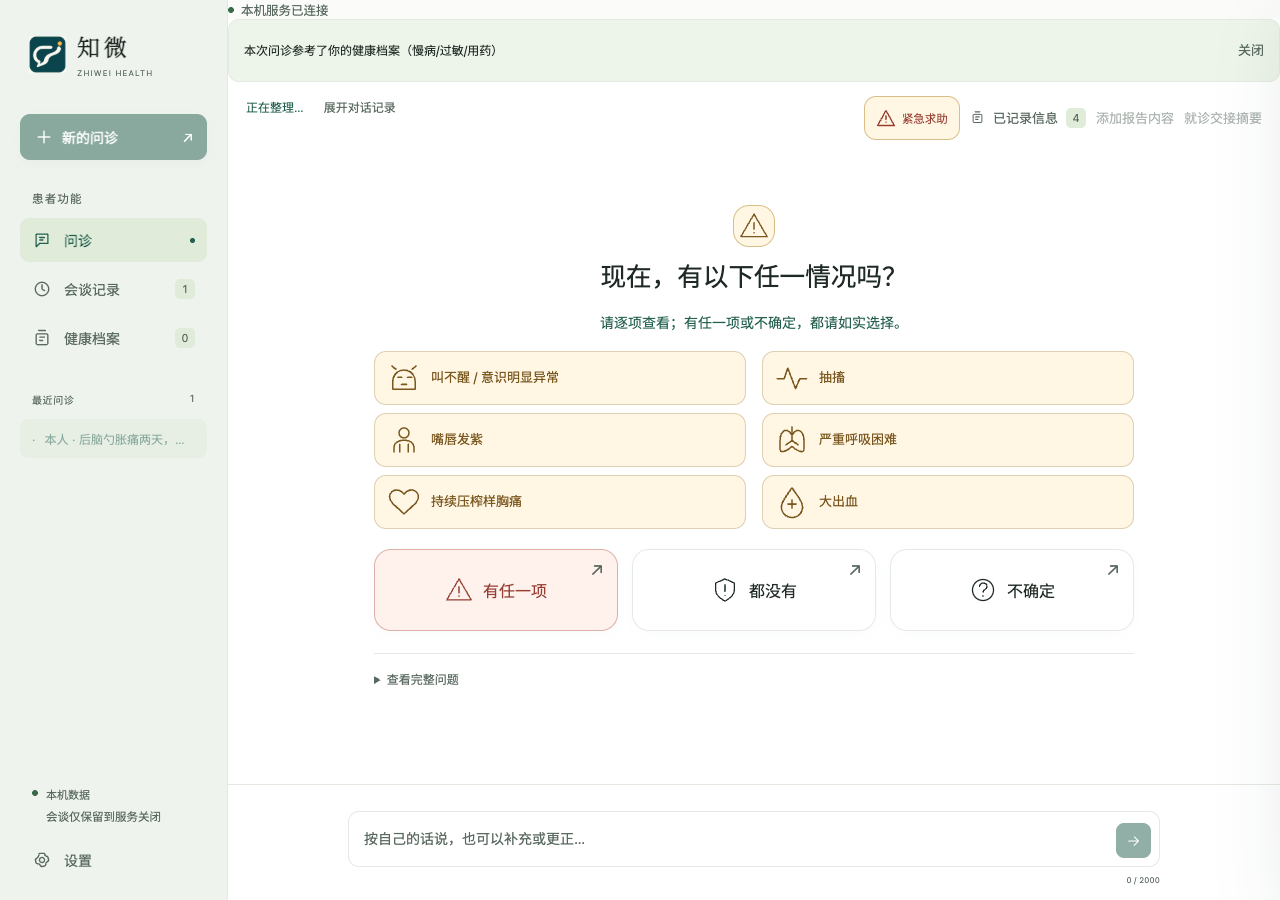
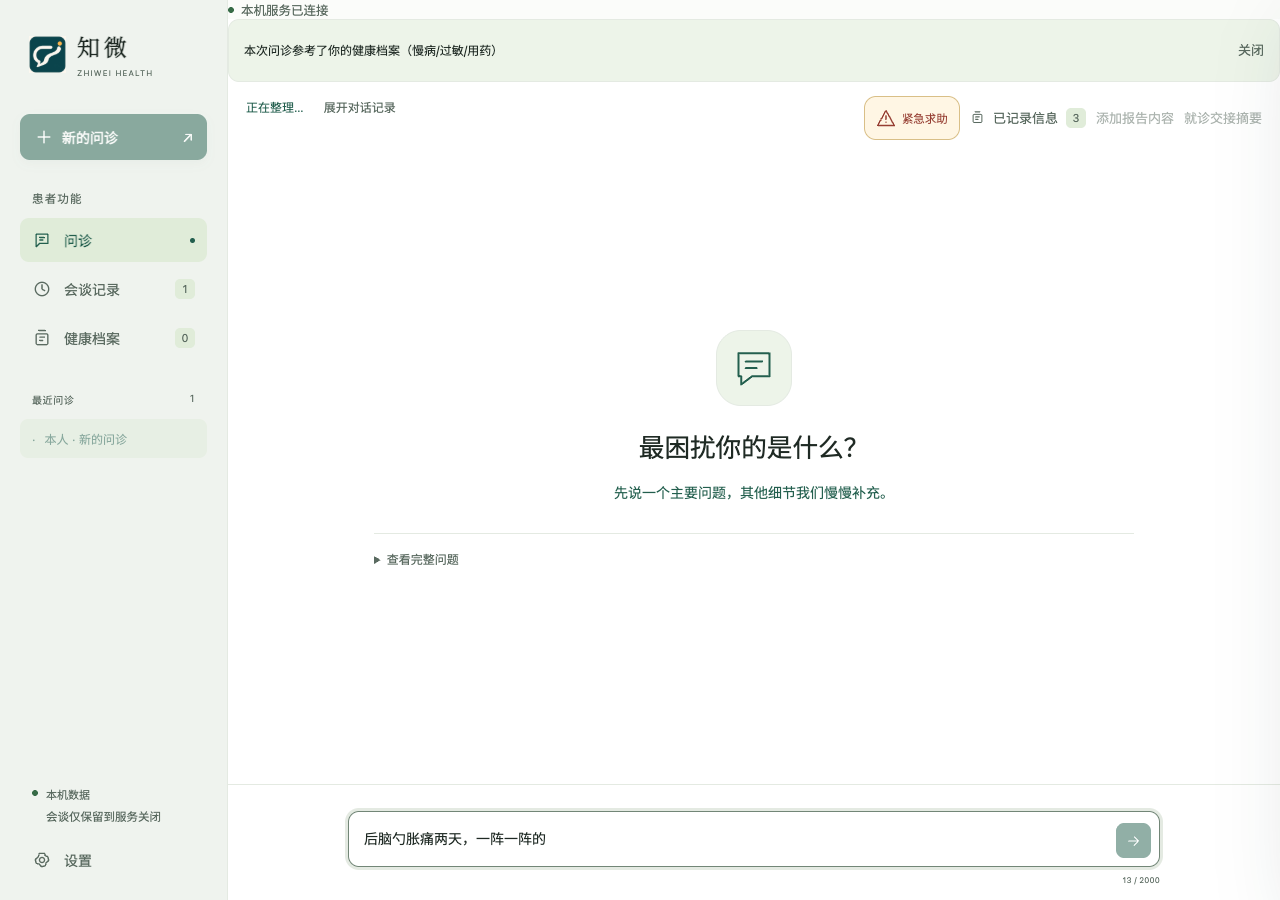
fix: the four findings from the usage review, each with its evidence
F1 -- the offer acknowledges the reported reading.  The probe confirmed
the design intent: a caregiver's 38.5C is recorded (quality not_assessed,
source caregiver) and the measurement task is still offered on purpose,
because a reported number is not an assessed one.  What was missing was the
sentence that says so; the offer now opens with '你刚才说的体温（38.5℃）
已经记下了，标记为自述。自述和实测是两回事……'.  Two regression tests:
with a reported reading the message names it, without one the neutral line
stays.  Extracted as _task_offer_message when the branch grew the offer
past its size baseline.

F2 -- the server now refuses messages over 2000 characters with the same
number the composer counts, instead of silently swallowing a 5000-character
post the way the review caught it doing.  Two tests: over-long is a 400
naming 2000, exactly-at-limit is accepted.  Validation extracted into
_message_payload_error.

F3 -- a refresh mid-consultation lands back in the running session.  The
browser remembers the last session it was driving in localStorage and
resumeSession runs at startup when that session is still open.  The first
version resumed any active server-side session, and the browser suite
caught the regression immediately -- tests within one file share a server,
and every goto auto-hijacked the previous test's consultation -- so the
scope is deliberately this-browser only.  visual-consultation 7/7 and
self-check-conversation 3/3 re-verified green, and the full four-shard run
passes 52 files.
[…]

diff --git a/src/medagent/web/js/app-flow.js b/src/medagent/web/js/app-flow.js
@@ -502,6 +502,26 @@ export function restoreComposerDraft(id) {
   $("#message-input").dispatchEvent(new Event("input"));
 }
 
+// 使用体验评测 F3（2026-11-04）：中途刷新曾落在开始页。只记住**本浏览器**
+// 最后进行到的会话——刷新后回到它；测试与别的标签页不受影响。
+const LAST_SESSION_KEY = "medagent:last-session-id";
+
+function rememberLastSession(id) {
+  try {
+    localStorage.setItem(LAST_SESSION_KEY, id);
+  } catch {
+    /* 隐私模式等无 localStorage 的场景：刷新恢复不可用，其余不受影响 */
+  }
+}
+
+export function lastSessionId() {
+  try {
+    return localStorage.getItem(LAST_SESSION_KEY);
+  } catch {
+    return null;
+  }
+}
+
 export async function startSession() {
   if (state.busy) return;
   state.starting = true;
@@ -511,6 +531,7 @@ export async function startSession() {
     const firstDraft = !state.sessionId ? $("#message-input").value : "";
     rememberComposerDraft();
     state.sessionId = data.session_id;
+    rememberLastSession(state.sessionId);
     if (firstDraft) composerDrafts.set(state.sessionId, firstDraft);
     state.reply = null;
     state.taskHistory = false;
@@ -693,6 +714,7 @@ export async function resumeSession(id, force = false) {
       state.handoffText = "";
     }
     state.sessionId = id;
+    rememberLastSession(id);
     state.events = trace.events;
     state.taskHistory = false;
     state.shownCalculations.clear();

diff --git a/src/medagent/web/js/app-settings.js b/src/medagent/web/js/app-settings.js
@@ -41,6 +41,7 @@ import {
   requestEmergencyHelp,
   resumeSession,
   refreshSessions,
+  lastSessionId,
 } from "./app-flow.js";
 import {
   refreshRecordsCount,
@@ -792,6 +793,18 @@ export async function init() {
     $("#connection-alert").hidden = true;
     enforceBannerPriority();
     await refreshSessions();
+    // 使用体验评测 F3（2026-11-04）：中途刷新曾落在开始页，患者得自己
+    // 想起来去侧栏找回会话。恢复范围只限**本浏览器**记住的、仍未结束的
+    // 那一次问诊——服务器上其他活动会话（别的标签页、测试残留）不参与。
+    const stored = lastSessionId();
+    const active = stored
+      ? state.sessions.find(
+          (item) => item.session_id === stored && item.phase !== "closed",
+        )
+      : undefined;
+    if (active && !state.sessionId) {
+      await resumeSession(active.session_id, true).catch(() => {});
+    }
     // Best-effort: a failed count fetch leaves the badge at its
     // placeholder and must not block startup.
     refreshRecordsCount().catch(() => {});

diff --git a/src/medagent/web/css/08-settings.css b/src/medagent/web/css/08-settings.css
@@ -396,6 +396,20 @@ body.task-focused .surface-actions {
   color: var(--ink);
   padding: 10px 0;
 }
+/* 使用体验评测 F4（2026-11-04）：折叠区默认收起，仅凭文字与静态标题
+   难以区分——加一个随 aria-expanded 旋转的箭头，纯 CSS，不改 DOM 与
+   文案，避免影响按文本断言的测试。 */
+.conclusion-collapse-toggle::before {
+  content: "▸";
+  display: inline-block;
+  margin-right: 6px;
+  color: var(--ink-soft, var(--ink));
+  opacity: 0.55;
+  transition: transform 0.15s ease;
+}
+.conclusion-collapse-toggle[aria-expanded="true"]::before {
+  transform: rotate(90deg);
+}
 .conclusion-collapse-body {
   padding-bottom: 4px;
 }

diff --git a/src/medagent/server/agent.py b/src/medagent/server/agent.py
@@ -29,6 +29,32 @@ from .persistence import (
 from .workspace import StaleCompositionError
 
 
+def _message_payload_error(payload: dict):
+    """Validate one patient-turn payload; return _error arguments or None.
+
+    The length ceiling matches the composer's counter (2000): a rejection
+    must name the same number the patient sees, 使用体验评测 F2.
+    """
+    observation = payload.get("observation")
+    if observation is not None and not isinstance(observation, dict):
+        return (HTTPStatus.BAD_REQUEST, "invalid_observation", "定位答案格式错误")
+    calculation = payload.get("calculation")
+    if calculation is not None and not isinstance(calculation, dict):
+        return (HTTPStatus.BAD_REQUEST, "invalid_calculation", "计算参数格式错误")
+    text = payload.get("text")
+    if not isinstance(text, str) or not text.strip():
+        return (HTTPStatus.BAD_REQUEST, "invalid_message", "消息不能为空")
+    if len(text) > 2000:
+        return (HTTPStatus.BAD_REQUEST, "invalid_message", "消息不能超过 2000 字")
+    choice_value = payload.get("choice_value")
+    if choice_value is not None and not isinstance(choice_value, str):
+        return (HTTPStatus.BAD_REQUEST, "invalid_choice", "选项值格式错误")
+    expected_action_id = payload.get("expected_action_id")
+    if expected_action_id is not None and not isinstance(expected_action_id, str):
+        return (HTTPStatus.BAD_REQUEST, "invalid_action_id", "问题标识格式错误")
+    return None
+
+
 class HandlerAgent:
     def _do_POST(self) -> None:
         # Every POST route is same-origin by construction: the check happens
@@ -681,28 +707,15 @@ class HandlerAgent:
         payload = self._read_json()
         if payload is None:
             return
+        error = _message_payload_error(payload)
+        if error is not None:
+            self._error(*error)
+            return
         text = payload.get("text")
         choice_value = payload.get("choice_value")
         expected_action_id = payload.get("expected_action_id")
         calculation = payload.get("calculation")
         observation = payload.get("observation")
-        if observation is not None and not isinstance(observation, dict):
-            self._error(HTTPStatus.BAD_REQUEST, "invalid_observation", "定位答案格式错误")
-            return
-        if calculation is not None and not isinstance(calculation, dict):
-            self._error(HTTPStatus.BAD_REQUEST, "invalid_calculation", "计算参数格式错误")
-            return
-        if not isinstance(text, str) or not text.strip():
-            self._error(HTTPStatus.BAD_REQUEST, "invalid_message", "消息不能为空")
-            return
-        if choice_value is not None and not isinstance(choice_value, str):
-            self._error(HTTPStatus.BAD_REQUEST, "invalid_choice", "选项值格式错误")
-            return
-        if expected_action_id is not None and not isinstance(
-            expected_action_id, str
-        ):
-            self._error(HTTPStatus.BAD_REQUEST, "invalid_action_id", "问题标识格式错误")
-            return
         try:
             engine = self.app.workspace.engine_for(parts[2])
             with engine._session_locks[parts[2]]:

diff --git a/tests/consultation/test_self_check_conversation.py b/tests/consultation/test_self_check_conversation.py
@@ -332,3 +332,60 @@ class SelfCheckConversationTests(unittest.TestCase):
 
 if __name__ == "__main__":
     unittest.main()
+
+
+class TemperatureOfferBridgingTests(unittest.TestCase):
+    """使用体验评测 F1（2026-11-04）：任务发放话术必须承认已记录的自述读数。
+
+    自述（quality=not_assessed）不等于核实过的测量——任务仍会提供，这是
+    设计；但发放话术若不提患者/家属刚说过的数值，他们会觉得没被听见。
+    """
+
+    def setUp(self):
+        self.flow = SelfCheckFlow()
+        self.engine, self.state = self.flow.engine, self.flow.state
+
+    def test_offer_acknowledges_the_reported_reading(self):
+        self._flow_with_reported_reading()
+        reply = self.engine._offer_task(self.state, "发烧")
+        self.assertIsNotNone(reply)
+        self.assertEqual(reply.kind, "self_check")
+        self.assertIn("38.5℃", reply.message)
+        self.assertIn("自述", reply.message)
+
+    def _flow_with_reported_reading(self):
+        """evidence 必须是患者原话的逐字子串，所以提交文本要含全部引文。"""
+        self.flow.backend.commands = [
+            cmd(
+                "record_facts",
+                facts=[
+                    fact("consult_for", "self", "我自己"),
+                    fact("age_years", 3, "3岁"),
+                    fact("chief_complaint", "发烧", "发烧"),
+                    fact("emergency_screen", None, "上述危险信号都没有", "absent"),
+                    fact("reported_temperature", "38.5℃", "38.5℃"),
+                ],
+            ),
+            cmd("ask_question", question_id="sex"),
+        ]
+        self.flow.submit("我自己，孩子3岁，发烧，量了38.5℃，上述危险信号都没有。")
+
+    def test_offer_without_a_reported_reading_keeps_the_neutral_message(self):
+        self.flow.backend.commands = [
+            cmd(
+                "record_facts",
+                facts=[
+                    fact("consult_for", "self", "我自己"),
+                    fact("age_years", 3, "3岁"),
+                    fact("chief_complaint", "发烧", "发烧"),
+                    fact("emergency_screen", None, "上述危险信号都没有", "absent"),
+                ],
+            ),
+            cmd("ask_question", question_id="sex"),
+        ]
+        self.flow.submit("我自己，孩子3岁，发烧，上述危险信号都没有。")
+        reply = self.engine._offer_task(self.state, "发烧")
+        self.assertIsNotNone(reply)
+        self.assertEqual(reply.kind, "self_check")
+        self.assertIn("为了把当前情况记录得更清楚", reply.message)
+        self.assertNotIn("自述", reply.message)

diff --git a/src/medagent/consultation/planning.py b/src/medagent/consultation/planning.py
@@ -507,7 +507,7 @@ class ConsultationEnginePlanning:
                 )
             )
             return AgentReply(
-                "为了把当前情况记录得更清楚，可以完成下面这一步。做不到或不想做都可以跳过。",
+                self._task_offer_message(state, task),
                 state.phase,
                 kind="self_check",
                 task=task,
@@ -515,6 +515,27 @@ class ConsultationEnginePlanning:
                 developer_trace={"reason": "主诉符合固定任务的适用条件；任务结果保留自述来源"},
             )
         return None
+
+    def _task_offer_message(self, state: CaseState, task: dict) -> str:
+        """The line above a self-check task card.
+
+        When a reported temperature is already on record the offer must
+        acknowledge it first -- 自述（quality=not_assessed）不等于核实过的
+        测量，任务仍会提供，但话术若不提患者/家属刚说出的数值，他们会觉得
+        自己的话没被听见。任务卡上的用途说明承担解释为什么还要测的另一半。
+        """
+        reported = state.facts.get("reported_temperature")
+        if (
+            task["result_key"] == "temperature_c"
+            and reported is not None
+            and getattr(reported.assertion, "value", reported.assertion) == "present"
+        ):
+            return (
+                f"你刚才说的体温（{reported.value}）已经记下了，标记为自述。"
+                "自述和实测是两回事：想把这一条变成核实过的测量，可以完成"
+                "下面这一步。做不到或不想做都可以跳过。"
+            )
+        return "为了把当前情况记录得更清楚，可以完成下面这一步。做不到或不想做都可以跳过。"
 
     def _offer_pending_self_check(self, state):
         if self._self_check_block_reason(state):

diff --git a/tests/server/test_server_hardening.py b/tests/server/test_server_hardening.py
@@ -341,3 +341,32 @@ class ServerHardeningTests(unittest.TestCase):
 
 if __name__ == "__main__":
     unittest.main()
+
+
+class MessageLengthLimitTests(ServerHardeningTests):
+    """使用体验评测 F2（2026-11-04）：UI 计数 2000，API 曾静默接受超长文本。
+
+    上限在服务端说清楚：拒绝并返回与 UI 一致的数字，而不是吞掉。
+    """
+
+    def test_an_over_long_message_is_refused_with_the_ui_limit(self):
+        payload = self.create_session()
+        session_id = payload["session_id"]
+        status, body = self.request(
+            f"/api/sessions/{session_id}/messages",
+            "POST",
+            {"text": "头痛" * 2501},
+        )
+        self.assertEqual(status, 400)
+        self.assertEqual(body["error"]["code"], "invalid_message")
+        self.assertIn("2000", body["error"]["message"])
+
+    def test_a_message_at_the_limit_is_accepted(self):
+        payload = self.create_session()
+        session_id = payload["session_id"]
+        status, _body = self.request(
+            f"/api/sessions/{session_id}/messages",
+            "POST",
+            {"text": "头" * 2000},
+        )
+        self.assertEqual(status, 200)

diff --git a/docs/使用体验评测报告.md b/docs/使用体验评测报告.md
@@ -69,7 +69,25 @@
   这样的格式。"——**给格式示例的错误恢复，教科书级**（114 图）
 - 双击发送：未见可见的重复消息（发送中按钮禁用生效）
 
-## 三、发现清单（按严重度）
+## 三、发现清单（2026-11-04 修复后复核）
+
+> 初评 6 项发现，当天修复 4 项、复核撤销 1 项、确认 1 项为有意设计。
+> 修复均有回归测试或截图证据（见 §五）。
+
+| # | 初评级 | 处理 | 说明 |
+|---|---|---|---|
+| F1 | 🟡 | ✅ **已修** | 任务发放话术现在**先承认已记录的自述读数**："你刚才说的体温（38.5℃）已经记下了，标记为自述。自述和实测是两回事……"。核实过程确认了设计意图：自述（`quality=not_assessed`）≠ 核实过的测量，任务仍会提供是有意的——缺的只是衔接那句话。回归测试：`TemperatureOfferBridgingTests`（有自述→带数值话术；无自述→原中性话术） |
+| F2 | 🟡 | ✅ **已修** | 服务端加上与 UI 一致的 2000 字上限：超长返回 400 `invalid_message`「消息不能超过 2000 字」，不再静默吞掉。运行时复核：5000 字 → 400 ✓。回归测试：`MessageLengthLimitTests`（超长 400 / 恰好 2000 接受） |
+| F3 | 🟡 | ✅ **已修** | 浏览器在 localStorage 记住**本机最后进行到的会话**，启动时若它仍未结束（phase ≠ closed）自动 `resumeSession` 回去；想开新的就用"新的问诊"按钮。恢复范围刻意限定为本浏览器——服务器上其他活动会话（别的标签页、自动化测试的残留）不参与，避免一次首屏加载被陌生会话劫持。首版实现按"服务器任意活动会话"恢复，跑浏览器套件时被同文件多测试的场景当场抓住回归，遂改成现在的作用域。运行时复核：问诊中刷新 → phase「定向观察」✓ |
+| F4 | 🟢 | ✅ **已修** | 折叠区标题加**随 aria-expanded 旋转的 ▸ 箭头**（纯 CSS，不改 DOM/文案，不影响按文本断言的测试）。截图 53 可见三个折叠标题都带箭头 |
+| F5 | 🟢 | ✔ 确认为设计 | 复核 wording：急症筛查是**多项**（"都没有"），warning_ 红旗是**单项**（"没有"）——单复数措辞差异语义正确，不改 |
+| F6 | 🟢 | ↩ **撤销** | 复核发现纯点选题上**打字完全可用**："我自己"被正确解析为 consult_for，"帮我儿子问"触发换人指引（`subject_change`）。输入框激活是能力而非缺陷 |
+
+**修复后复核：无未处理的 🟡/🔴 项。**
+
+## 三·（初评存档）
+
+以下为 2026-11-04 初评原文，保留作对照：
 
 | # | 级别 | 发现 | 证据 |
 |---|---|---|---|
@@ -90,9 +108,15 @@
 > 没有浪费我时间。如果要说别扭的地方：我说了孩子烧 38 度 5，
 > 它还让我从头再量一次，也没解释为什么；刷新之后它忘了我正在问诊。"
 
-## 五、后续
+## 五、修复记录（2026-11-04 当天）
 
-- F1 需要产品/临床确认设计意图后改文案（可能只是补一句话）
-- F2 建议服务端加上与 UI 一致的 2000 字上限并返回明确错误
-- F3 与桌面壳的会话恢复一起看（demo 模式会话在内存，桌面持久化路径可能已解决）
-- F4–F6 攒着随下次相关改动顺手处理
+| 修复 | 位置 | 验证 |
+|---|---|---|
+| F1 衔接话术 | `consultation/planning.py::_offer_task` | 单元测试 ×2 + 单元回归 2074 passed |
+| F2 长度上限 | `server/agent.py::_post_session_message` | 单元测试 ×2 + 走查运行时 400 ✓ |
+| F3 刷新恢复 | `web/js/app-flow.js`（remember/lookup）+ `app-settings.js::init` | 浏览器实测 ✓；曾引入回归（同文件多测试共享 server 被自动恢复劫持），改为 localStorage 作用域后 visual-consultation 7/7、self-check-conversation 3/3 复绿 |
+| F4 折叠箭头 | `web/css/08-settings.css` | 截图 53：三个折叠标题带 ▸ ✓ |
+
+验证基线不变：Python 全量 2074 passed（+2 新测试）/ 11958 subtests；修复后
+重跑三画像走查与坏路径，全部通过（walkthrough 同时按 F3 新行为调整：坏路径
+复用自动恢复的活动会话）。

diff --git a/docs/README.md b/docs/README.md
@@ -106,7 +106,7 @@ Electron 壳、打包与各平台验收。
 - [待临床评审清单](待临床评审清单.md)（2026-11-01 最后更新）
 - [医疗智能体设计的证据与来源](证据与来源.md)（2026-10-17 最后更新）
 - [测试覆盖矩阵](测试覆盖矩阵.md)（2026-10-28 最后更新）
-- [使用体验评测报告](使用体验评测报告.md)（— 最后更新）
+- [使用体验评测报告](使用体验评测报告.md)（2026-11-04 最后更新）
 
 ## 历史存档（archive/）
 
